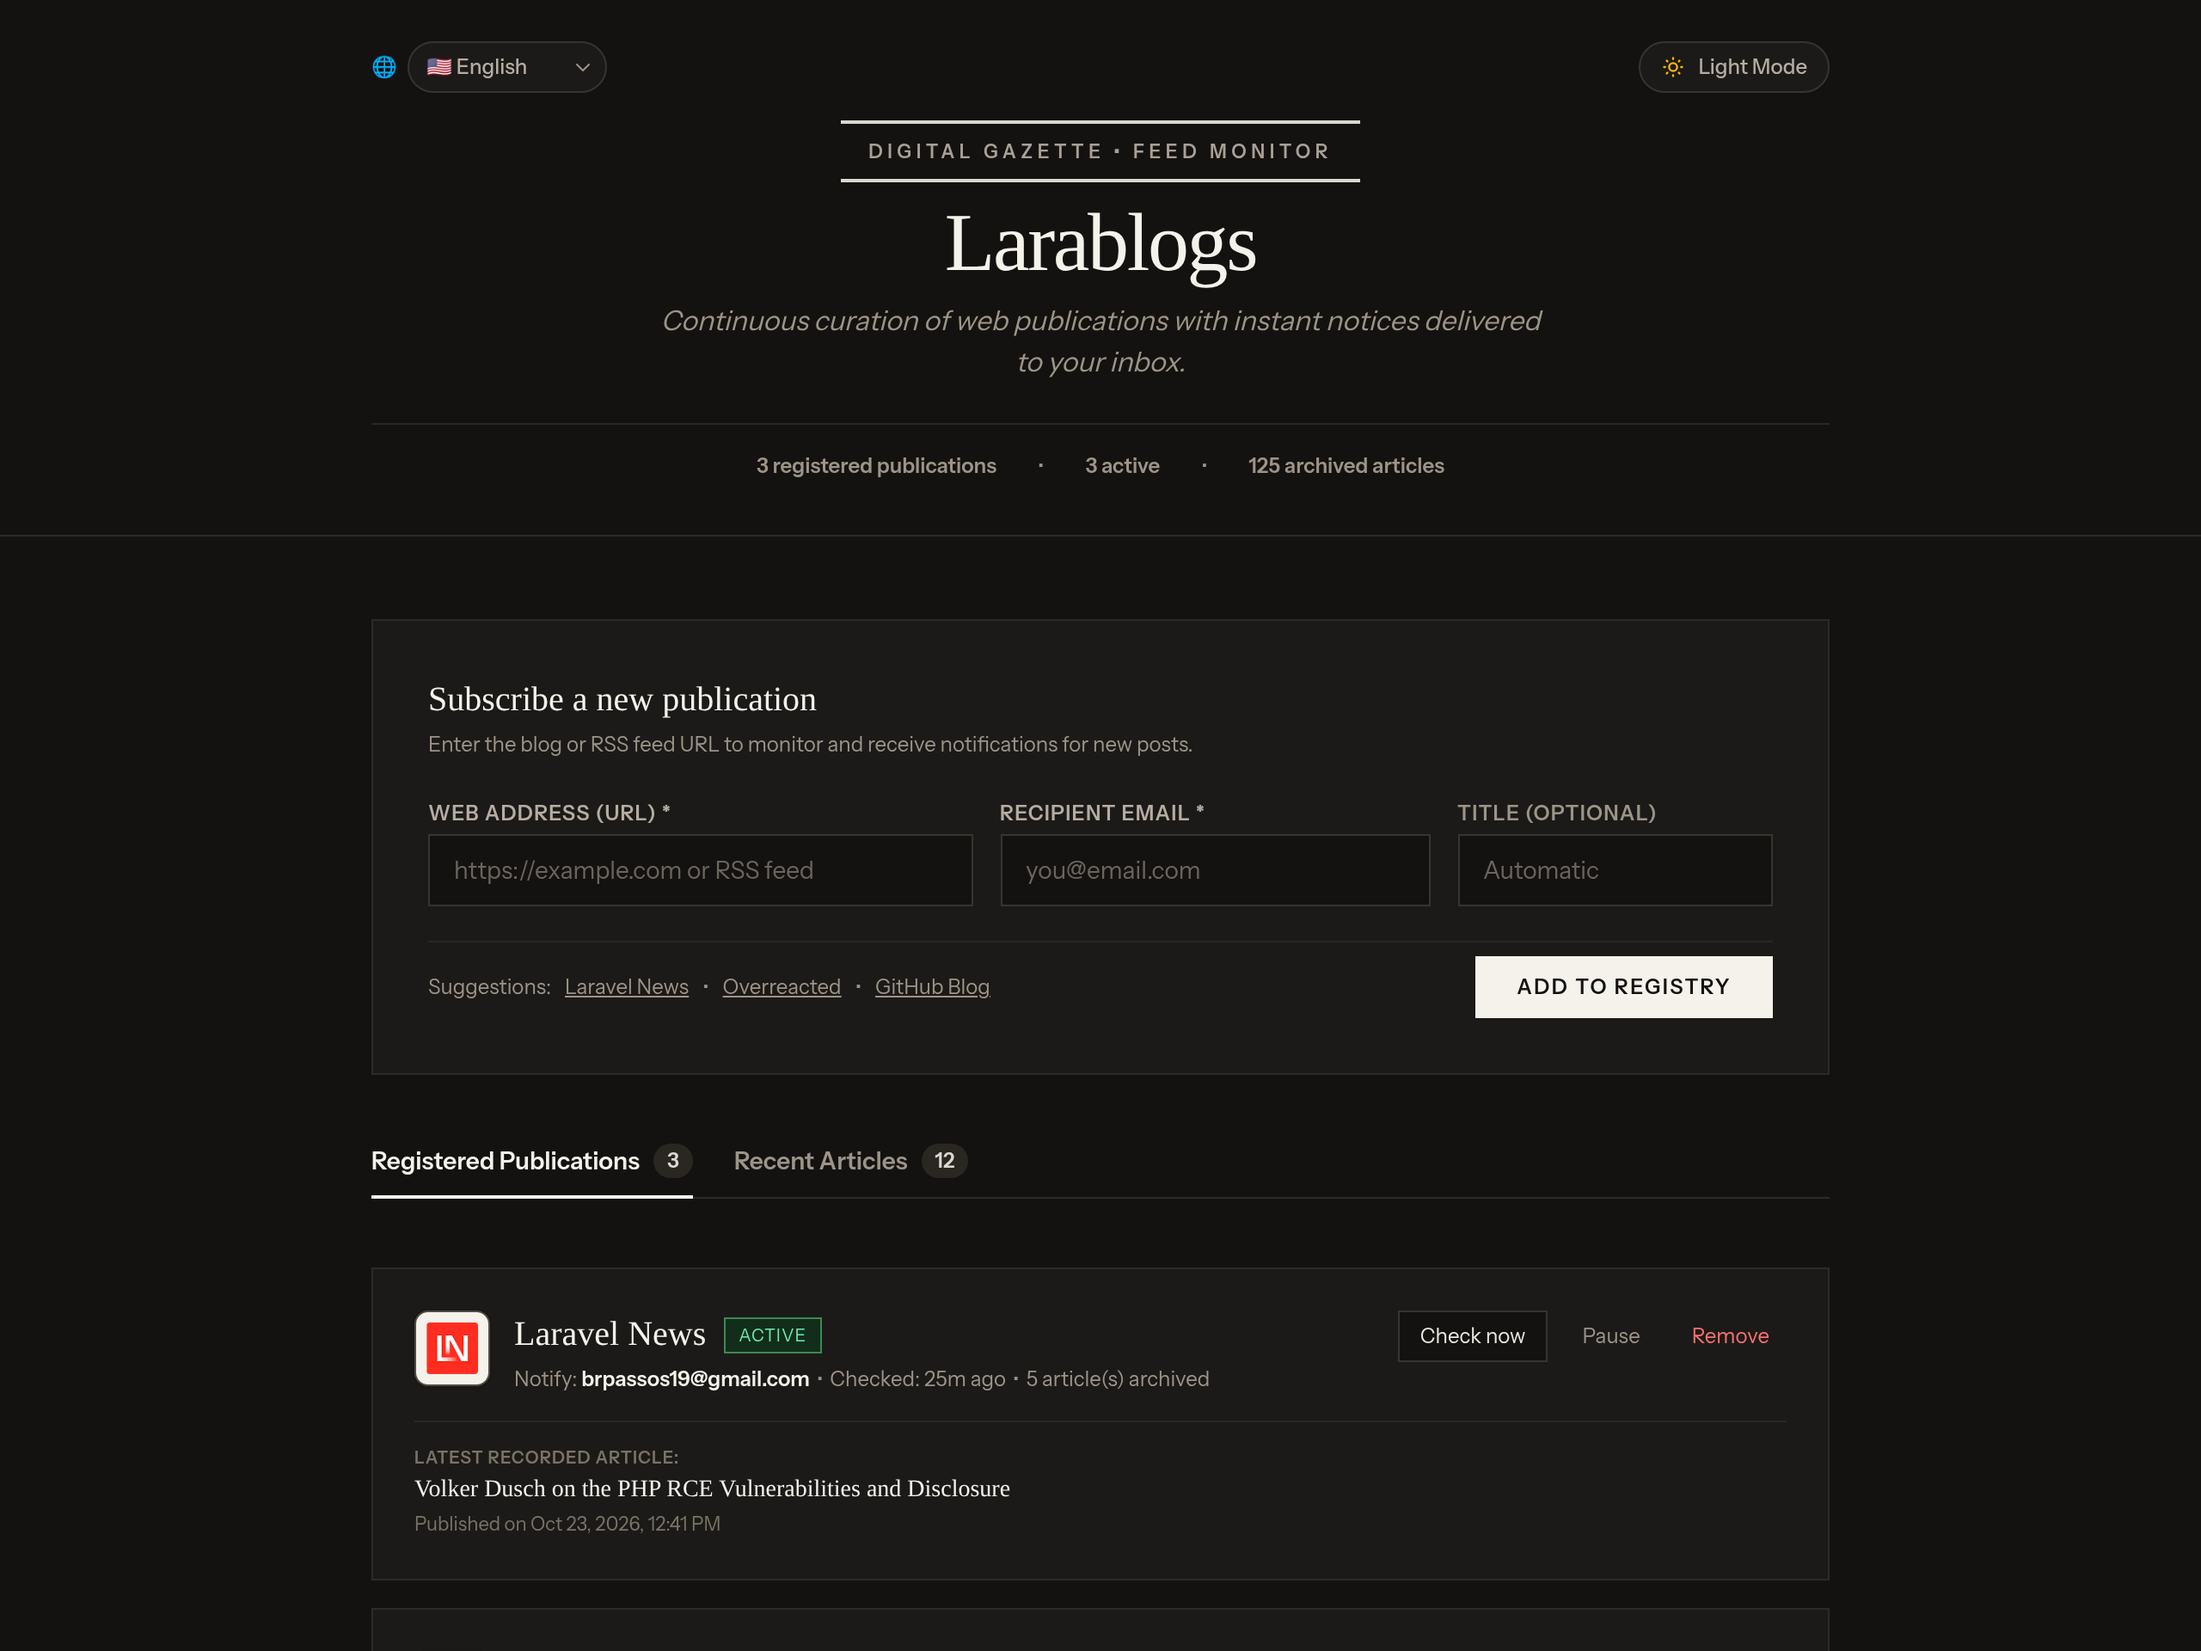
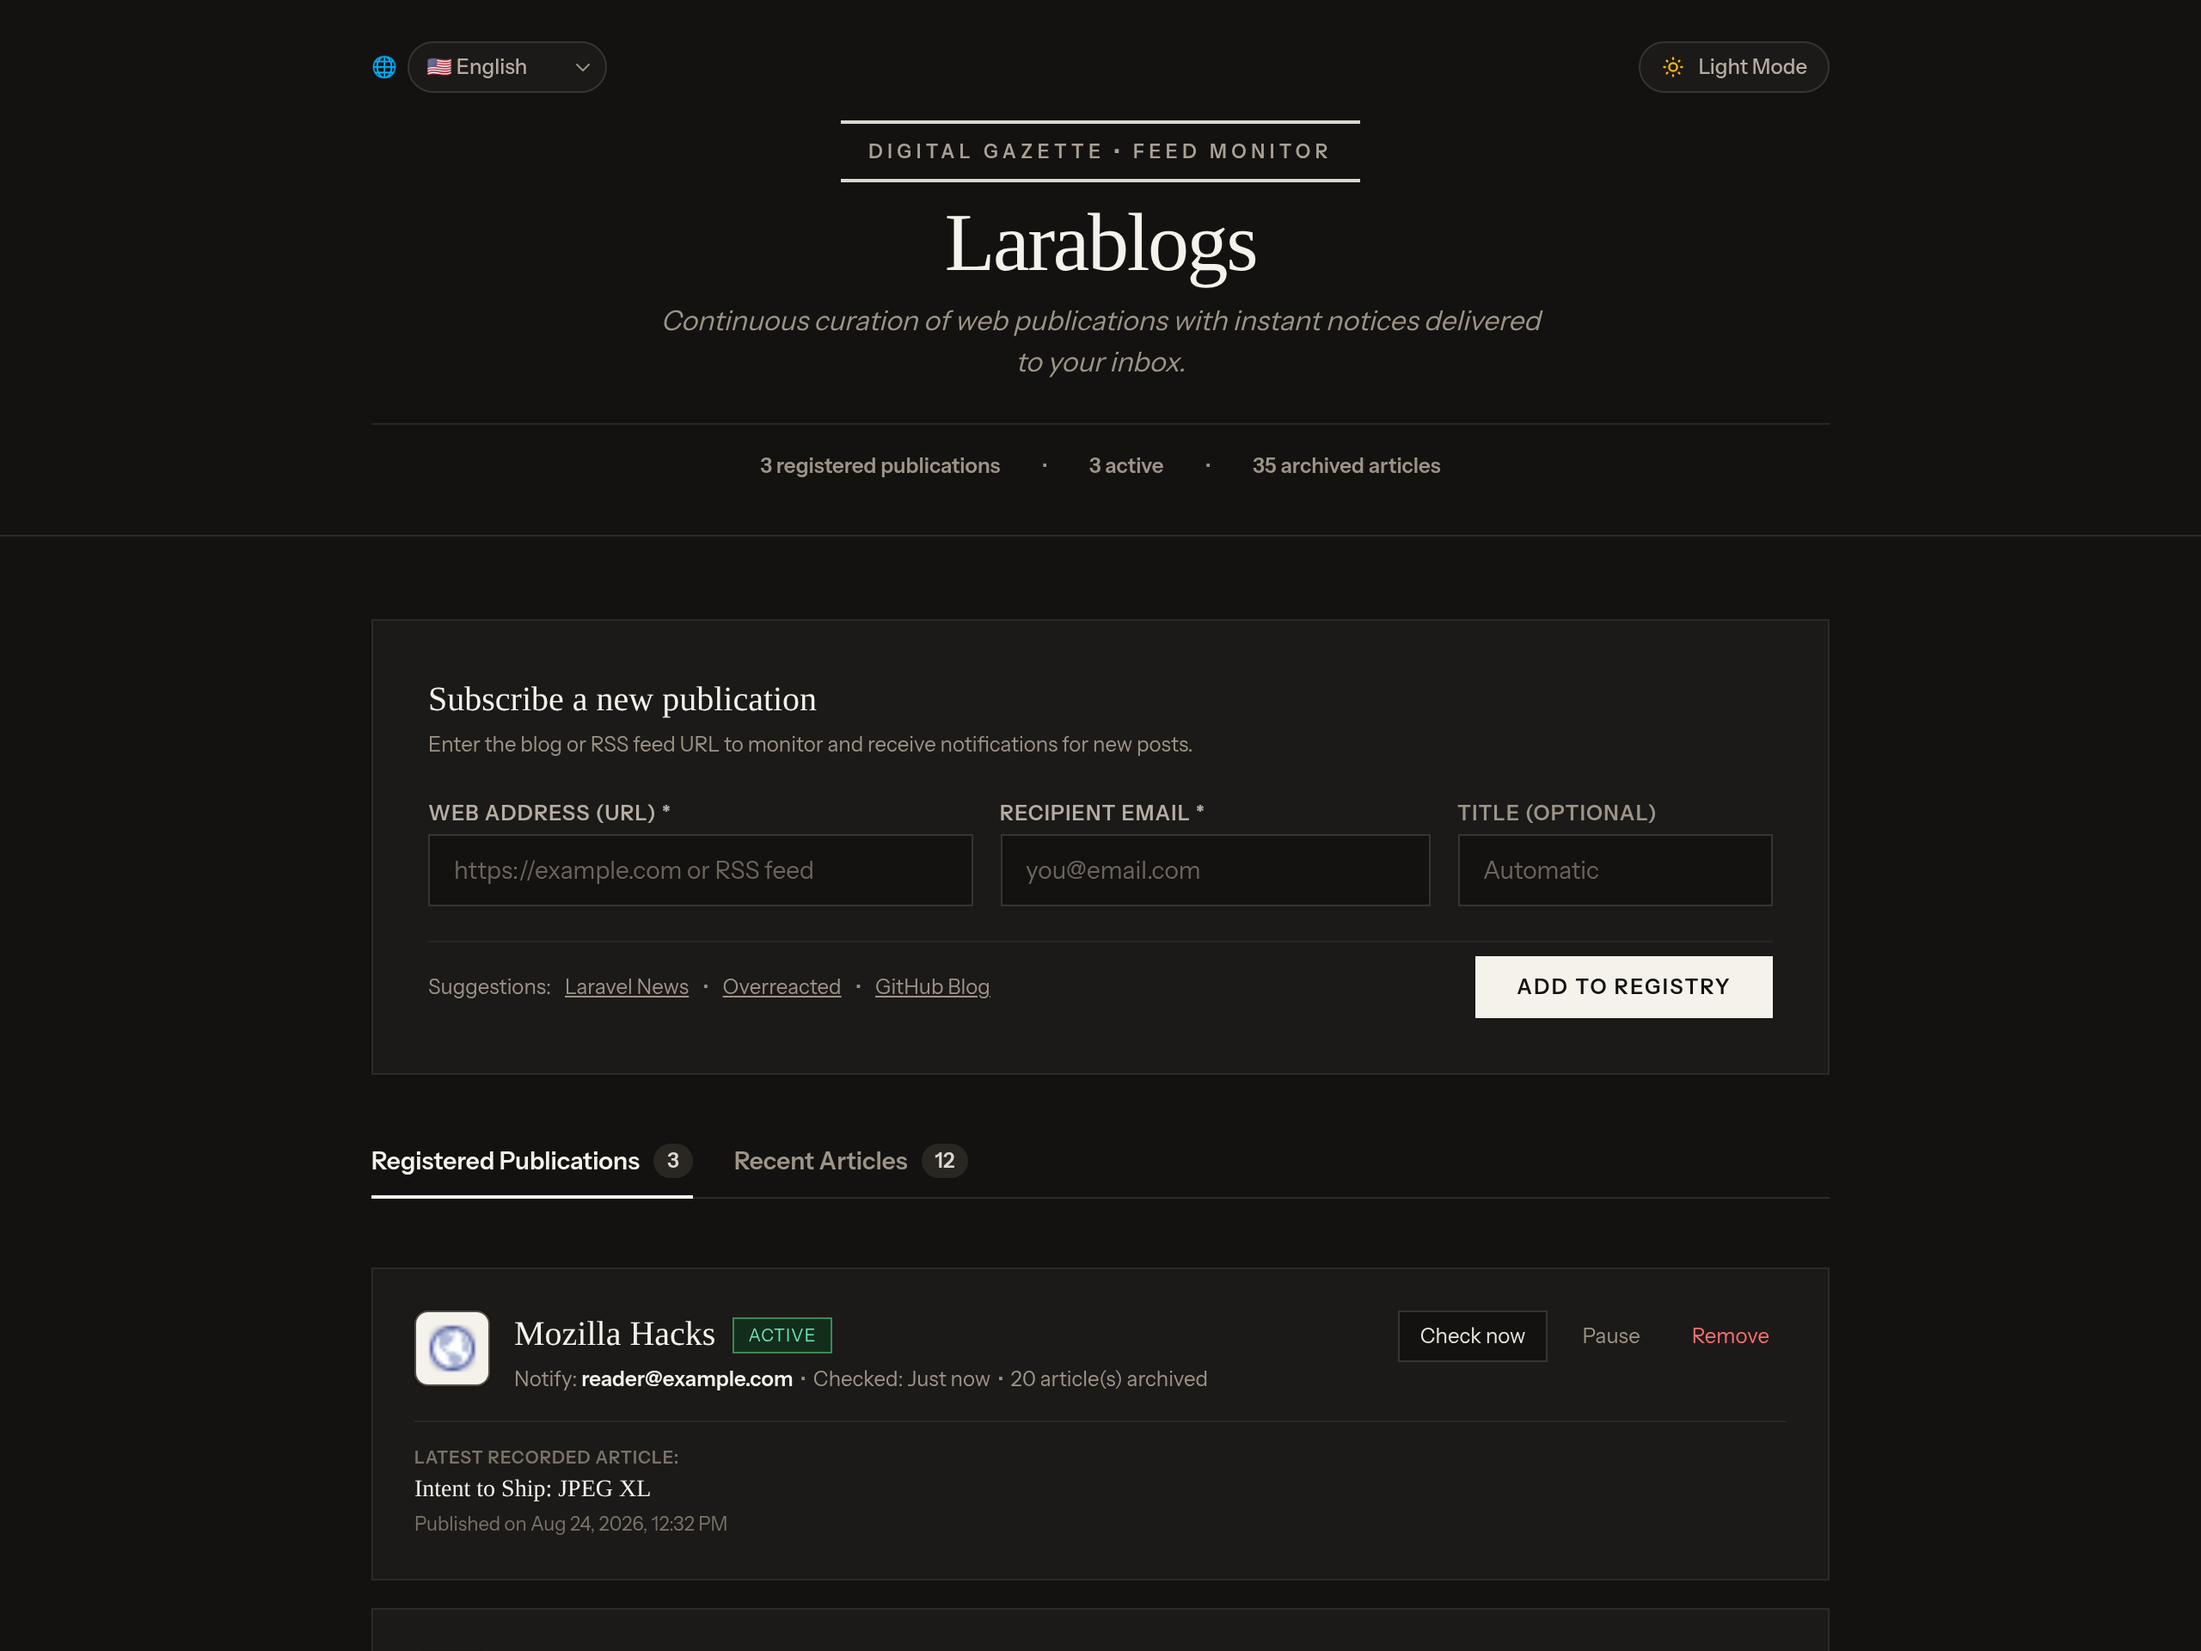
docs: update screenshots with generic tech blogs (Laravel News, GitHub Blog, Mozilla Hacks)

diff --git a/database/seeders/DatabaseSeeder.php b/database/seeders/DatabaseSeeder.php
@@ -2,24 +2,52 @@
 
 namespace Database\Seeders;
 
-use App\Models\User;
-use Illuminate\Database\Console\Seeds\WithoutModelEvents;
+use App\Models\Blog;
+use App\Services\FeedService;
 use Illuminate\Database\Seeder;
 
 class DatabaseSeeder extends Seeder
 {
-    use WithoutModelEvents;
-
     /**
-     * Seed the application's database.
+     * Seed the application's database with generic tech blogs.
      */
-    public function run(): void
+    public function run(FeedService $feedService): void
     {
-        // User::factory(10)->create();
+        $blogs = [
+            [
+                'title' => 'Laravel News',
+                'url' => 'https://laravel-news.com',
+                'feed_url' => 'https://feed.laravel-news.com/',
+                'notify_email' => 'reader@example.com',
+                'is_active' => true,
+            ],
+            [
+                'title' => 'The GitHub Blog',
+                'url' => 'https://github.blog',
+                'feed_url' => 'https://github.blog/feed/',
+                'notify_email' => 'reader@example.com',
+                'is_active' => true,
+            ],
+            [
+                'title' => 'Mozilla Hacks',
+                'url' => 'https://hacks.mozilla.org',
+                'feed_url' => 'https://hacks.mozilla.org/feed/',
+                'notify_email' => 'reader@example.com',
+                'is_active' => true,
+            ],
+        ];
 
-        User::factory()->create([
-            'name' => 'Test User',
-            'email' => 'test@example.com',
-        ]);
+        foreach ($blogs as $data) {
+            $blog = Blog::firstOrCreate(
+                ['feed_url' => $data['feed_url']],
+                $data
+            );
+
+            try {
+                $feedService->checkBlog($blog, notify: false);
+            } catch (\Exception) {
+                // Ignore network issues during offline seeding
+            }
+        }
     }
 }
